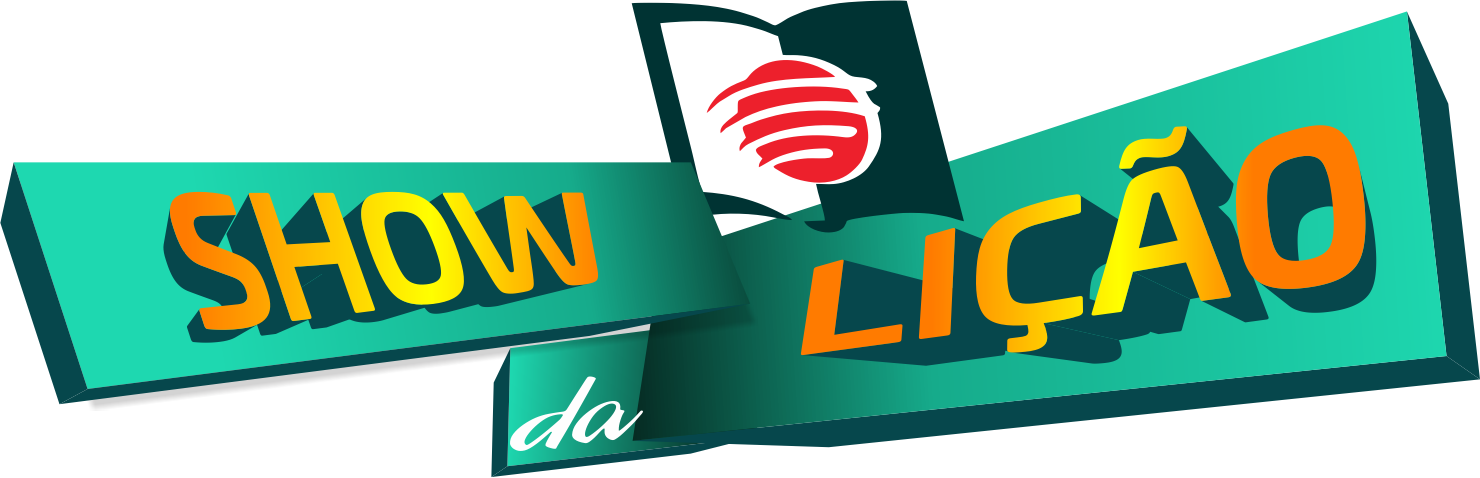
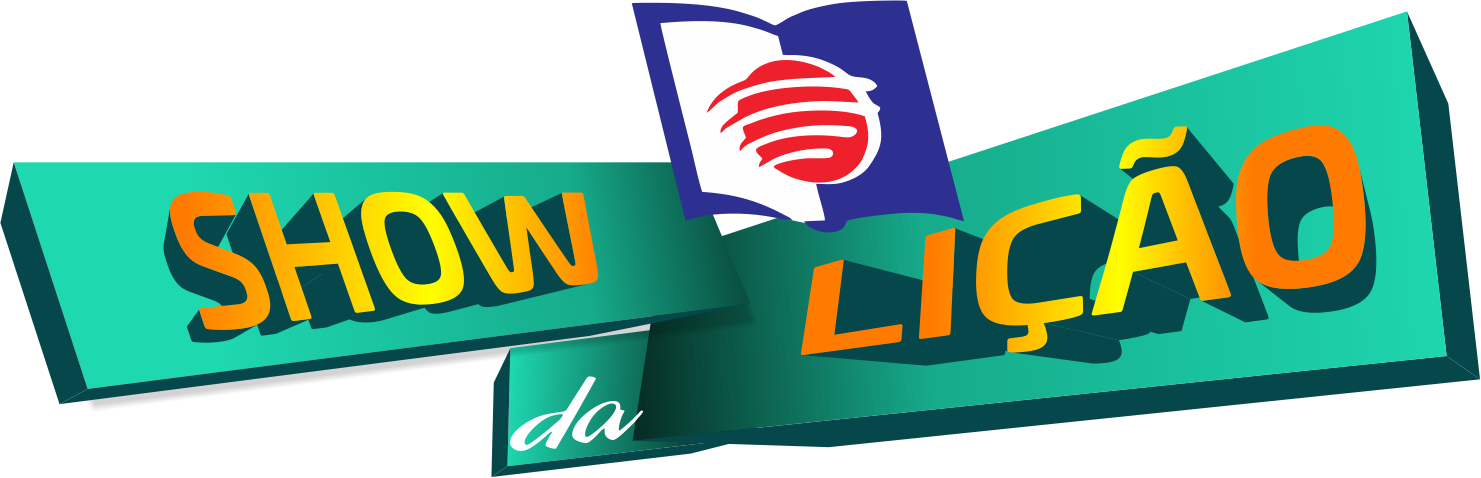
Ajustes no designer a botões.

diff --git a/App.tsx b/App.tsx
@@ -13,7 +13,7 @@ import wrongAudioTrack from './Errou.mp3';
 
 const MIN_ZOOM = 50;
 const MAX_ZOOM = 120;
-const DEFAULT_ZOOM = 67;
+const DEFAULT_ZOOM = 90;
 const DEFAULT_THEME_ID = 'ocean';
 const DEFAULT_CUSTOM_COLOR = '#ff006e';
 
@@ -80,17 +80,17 @@ const FONT_OPTIONS: FontOption[] = [
 ];
 
 const DEFAULT_QUESTION_FONT_ID = 'roboto-condensed-bold';
-const DEFAULT_ANSWER_FONT_ID = 'roboto-condensed-medium';
+const DEFAULT_ANSWER_FONT_ID = 'roboto-condensed-bold';
 const MIN_FONT_SIZE_PT = 12;
 const MAX_FONT_SIZE_PT = 100;
-const DEFAULT_QUESTION_FONT_SIZE = 32;
-const DEFAULT_ANSWER_FONT_SIZE = 28;
+const DEFAULT_QUESTION_FONT_SIZE = 31;
+const DEFAULT_ANSWER_FONT_SIZE = 16;
 const DEFAULT_QUESTION_POINTS = 1000;
 const DEFAULT_QUESTION_COUNT = 10;
 const DEFAULT_OPTION_COUNT = 4;
-const DEFAULT_MUSIC_VOLUME = 16;
-const DEFAULT_EFFECTS_VOLUME = 40;
-const DEFAULT_TEAM_CLOCK_VOLUME = 40;
+const DEFAULT_MUSIC_VOLUME = 30;
+const DEFAULT_EFFECTS_VOLUME = 90;
+const DEFAULT_TEAM_CLOCK_VOLUME = 60;
 const QUESTION_OPTION_KEYS: QuestionOptionKey[] = ['A', 'B', 'C', 'D', 'E', 'F'];
 const clamp = (value: number, min: number, max: number): number => Math.min(max, Math.max(min, value));
 
@@ -244,17 +244,23 @@ const App: React.FC = () => {
   const [showTeamNamesModal, setShowTeamNamesModal] = useState(false);
   const [musicVolume, setMusicVolume] = useState<number>(() => {
     if (typeof window === 'undefined') return DEFAULT_MUSIC_VOLUME;
-    const saved = Number(window.localStorage.getItem('musicVolume'));
+    const savedRaw = window.localStorage.getItem('musicVolume');
+    if (savedRaw === null) return DEFAULT_MUSIC_VOLUME;
+    const saved = Number(savedRaw);
     return Number.isFinite(saved) ? clamp(saved, 0, 100) : DEFAULT_MUSIC_VOLUME;
   });
   const [effectsVolume, setEffectsVolume] = useState<number>(() => {
     if (typeof window === 'undefined') return DEFAULT_EFFECTS_VOLUME;
-    const saved = Number(window.localStorage.getItem('effectsVolume'));
+    const savedRaw = window.localStorage.getItem('effectsVolume');
+    if (savedRaw === null) return DEFAULT_EFFECTS_VOLUME;
+    const saved = Number(savedRaw);
     return Number.isFinite(saved) ? clamp(saved, 0, 100) : DEFAULT_EFFECTS_VOLUME;
   });
   const [teamClockVolume, setTeamClockVolume] = useState<number>(() => {
     if (typeof window === 'undefined') return DEFAULT_TEAM_CLOCK_VOLUME;
-    const saved = Number(window.localStorage.getItem('teamClockVolume'));
+    const savedRaw = window.localStorage.getItem('teamClockVolume');
+    if (savedRaw === null) return DEFAULT_TEAM_CLOCK_VOLUME;
+    const saved = Number(savedRaw);
     return Number.isFinite(saved) ? clamp(saved, 0, 100) : DEFAULT_TEAM_CLOCK_VOLUME;
   });
   const [draftTeam1Name, setDraftTeam1Name] = useState('Equipe 1');
@@ -277,6 +283,28 @@ const App: React.FC = () => {
     hiddenOptions: [],
     shuffledQuestions: []
   });
+
+  useEffect(() => {
+    if (typeof window === 'undefined') return;
+
+    const migrationKey = 'appVolumeDefaultsMigratedV1';
+    if (window.localStorage.getItem(migrationKey) === '1') return;
+
+    const musicRaw = window.localStorage.getItem('musicVolume');
+    const effectsRaw = window.localStorage.getItem('effectsVolume');
+    const teamRaw = window.localStorage.getItem('teamClockVolume');
+
+    if (musicRaw === '0' && effectsRaw === '0' && teamRaw === '0') {
+      setMusicVolume(DEFAULT_MUSIC_VOLUME);
+      setEffectsVolume(DEFAULT_EFFECTS_VOLUME);
+      setTeamClockVolume(DEFAULT_TEAM_CLOCK_VOLUME);
+      window.localStorage.setItem('musicVolume', String(DEFAULT_MUSIC_VOLUME));
+      window.localStorage.setItem('effectsVolume', String(DEFAULT_EFFECTS_VOLUME));
+      window.localStorage.setItem('teamClockVolume', String(DEFAULT_TEAM_CLOCK_VOLUME));
+    }
+
+    window.localStorage.setItem(migrationKey, '1');
+  }, []);
 
   useEffect(() => {
     window.localStorage.setItem('appSetupZoomLevel', String(setupZoomLevel));
@@ -349,6 +377,47 @@ const App: React.FC = () => {
       openingAudioRef.current = null;
     };
   }, []);
+
+  useEffect(() => {
+    if (typeof window === 'undefined') return;
+    if (gameState.mode !== 'setup') return;
+
+    const removeInteractionListeners = () => {
+      window.removeEventListener('pointerdown', tryPlayOnInteraction);
+      window.removeEventListener('touchstart', tryPlayOnInteraction);
+      window.removeEventListener('keydown', tryPlayOnInteraction);
+      window.removeEventListener('mousemove', tryPlayOnInteraction);
+      window.removeEventListener('click', tryPlayOnInteraction);
+    };
+
+    const tryPlayOnInteraction = () => {
+      const audio = openingAudioRef.current;
+      if (!audio) return;
+
+      if (!audio.paused) {
+        removeInteractionListeners();
+        return;
+      }
+
+      void audio.play()
+        .then(() => {
+          removeInteractionListeners();
+        })
+        .catch(() => {
+          // Ignora bloqueios de autoplay em contextos sem interação.
+        });
+    };
+
+    window.addEventListener('pointerdown', tryPlayOnInteraction, { passive: true });
+    window.addEventListener('touchstart', tryPlayOnInteraction, { passive: true });
+    window.addEventListener('keydown', tryPlayOnInteraction);
+    window.addEventListener('mousemove', tryPlayOnInteraction, { passive: true });
+    window.addEventListener('click', tryPlayOnInteraction, { passive: true });
+
+    return () => {
+      removeInteractionListeners();
+    };
+  }, [gameState.mode]);
 
   useEffect(() => {
     const audio = openingAudioRef.current;
@@ -836,7 +905,7 @@ const App: React.FC = () => {
       </div>
       <button
         onClick={() => setShowSetupZoomPanel(prev => !prev)}
-        className="w-10 h-10 rounded-lg bg-white/20 hover:bg-white/20 backdrop-blur-sm shadow-none border-0 flex items-center justify-center transition-all duration-200 ease-out active:scale-95"
+        className="w-10 h-10 md:w-11 md:h-11 rounded-xl bg-white/20 hover:bg-white/40 backdrop-blur-sm shadow-lg border border-white/30 flex items-center justify-center transition-all duration-200 ease-out active:scale-95"
         style={{ color: activeTheme.primary }}
         aria-label="Abrir controle de zoom inicial"
         title="Zoom Inicial"
@@ -870,7 +939,7 @@ const App: React.FC = () => {
       </div>
       <button
         onClick={() => setShowGameZoomPanel(prev => !prev)}
-        className="w-10 h-10 rounded-lg bg-white/20 hover:bg-white/20 backdrop-blur-sm shadow-none border-0 flex items-center justify-center transition-all duration-200 ease-out active:scale-95"
+        className="w-10 h-10 md:w-11 md:h-11 rounded-xl bg-white/20 hover:bg-white/40 backdrop-blur-sm shadow-lg border border-white/30 flex items-center justify-center transition-all duration-200 ease-out active:scale-95"
         style={{ color: activeTheme.primary }}
         aria-label="Abrir controle de zoom da tela de perguntas"
         title="Zoom Perguntas"
@@ -883,7 +952,7 @@ const App: React.FC = () => {
   const settingsButton = (
     <button
       onClick={() => setShowSettings(true)}
-      className="fixed top-4 right-4 z-[70] w-10 h-10 rounded-lg bg-white/20 hover:bg-white/20 backdrop-blur-sm shadow-none border-0 flex items-center justify-center transition-all duration-200 ease-out active:scale-95"
+      className="fixed top-4 right-4 z-[70] w-10 h-10 md:w-11 md:h-11 rounded-xl bg-white/20 hover:bg-white/40 backdrop-blur-sm shadow-lg border border-white/30 flex items-center justify-center transition-all duration-200 ease-out active:scale-95"
       aria-label="Abrir configurações"
       title="Configurações"
       style={{ color: activeTheme.primary }}
@@ -904,20 +973,20 @@ const App: React.FC = () => {
             <div className="flex items-center justify-between gap-4 mb-6 md:mb-8">
               <h2 className="text-xl md:text-2xl font-black uppercase leading-none flex items-center gap-2 md:gap-2">
                 <img src={settingsIcon} alt="" className="w-6 h-6 md:w-7 md:h-7" aria-hidden="true" />
-                <span className="translate-y-[1px]">Configurações</span>
+                <span className="hidden md:inline translate-y-[1px]">Configurações</span>
               </h2>
               <div className="flex items-center gap-2 md:gap-3">
                 <button
                   onClick={handleApplyFontChanges}
                   disabled={!hasPendingFontChanges}
-                  className="px-5 py-2.5 rounded-xl text-white font-black uppercase text-xs md:text-sm shadow-lg transition-all disabled:opacity-50 disabled:cursor-not-allowed"
+                  className="px-4 md:px-5 py-2 md:py-2.5 rounded-xl text-white hover:text-green-300 font-black uppercase text-[10px] md:text-sm shadow-lg transition-all duration-200 ease-out hover:brightness-110 disabled:opacity-50 disabled:cursor-not-allowed"
                   style={{ backgroundColor: activeTheme.primary }}
                 >
                   Aplicar
                 </button>
                 <button
                   onClick={() => setShowSettings(false)}
-                  className="text-white font-black py-2.5 px-5 rounded-xl text-xs md:text-sm uppercase shadow-lg"
+                  className="text-white hover:text-green-300 font-black py-2 md:py-2.5 px-4 md:px-5 rounded-xl text-[10px] md:text-sm uppercase shadow-lg transition-all duration-200 ease-out hover:brightness-110"
                   style={{ backgroundColor: activeTheme.primary }}
                 >
                   Voltar
@@ -939,7 +1008,7 @@ const App: React.FC = () => {
                       <button
                         key={item.id}
                         onClick={() => setSettingsSection(item.id as 'interface' | 'perguntas' | 'fontes')}
-                        className={`w-full text-left px-4 py-3 rounded-xl font-black uppercase text-sm transition-all border ${isActive ? 'shadow-md' : 'hover:bg-white'}`}
+                        className={`w-full text-left px-4 py-2.5 md:py-3 rounded-xl font-black uppercase text-xs md:text-sm transition-all border ${isActive ? 'shadow-md' : 'hover:bg-white'}`}
                         style={isActive
                           ? {
                               color: activeTheme.primary,
@@ -1082,7 +1151,7 @@ const App: React.FC = () => {
                           />
                           <button
                             onClick={() => setThemeId('custom')}
-                            className="px-4 py-2 rounded-lg text-white font-bold text-sm"
+                            className="px-4 py-2 rounded-lg text-white font-bold text-xs md:text-sm"
                             style={{ backgroundColor: customColor }}
                           >
                             Usar Cor Personalizada
@@ -1139,7 +1208,7 @@ const App: React.FC = () => {
                     <button
                       onClick={openQuestionBuilder}
                       disabled={!questionBuilderIsReady}
-                      className="mt-6 w-full rounded-2xl px-5 py-4 text-white font-black uppercase shadow-lg transition-all disabled:opacity-50 disabled:cursor-not-allowed"
+                      className="mt-6 inline-flex self-center rounded-2xl px-4 md:px-5 py-3 md:py-4 text-white hover:text-green-300 font-black uppercase text-xs md:text-sm shadow-lg transition-all duration-200 ease-out hover:brightness-110 disabled:opacity-50 disabled:cursor-not-allowed"
                       style={{ backgroundColor: activeTheme.primary }}
                     >
                       Gerar perguntas
@@ -1259,7 +1328,7 @@ const App: React.FC = () => {
                 </div>
                 <button
                   onClick={() => setShowQuestionBuilder(false)}
-                  className="rounded-xl px-4 py-2.5 text-white font-black uppercase text-sm shadow-lg"
+                  className="rounded-xl px-4 py-2.5 text-white hover:text-green-300 font-black uppercase text-xs md:text-sm shadow-lg transition-all duration-200 ease-out hover:brightness-110"
                   style={{ backgroundColor: activeTheme.primary }}
                 >
                   Fechar
@@ -1349,13 +1418,13 @@ const App: React.FC = () => {
               <div className="border-t border-gray-100 bg-white px-4 py-4 md:px-8 md:py-5 flex items-center justify-end gap-3">
                 <button
                   onClick={() => setShowQuestionBuilder(false)}
-                  className="rounded-xl px-5 py-3 bg-gray-100 text-gray-600 font-black uppercase text-sm"
+                  className="rounded-xl px-5 py-3 bg-gray-100 text-gray-600 font-black uppercase text-xs md:text-sm"
                 >
                   Cancelar
                 </button>
                 <button
                   onClick={generateQuestions}
-                  className="rounded-xl px-5 py-3 text-white font-black uppercase text-sm shadow-lg"
+                  className="rounded-xl px-5 py-3 text-white hover:text-green-300 font-black uppercase text-xs md:text-sm shadow-lg transition-all duration-200 ease-out hover:brightness-110"
                   style={{ backgroundColor: activeTheme.primary }}
                 >
                   Salvar
@@ -1379,17 +1448,18 @@ const App: React.FC = () => {
             className="w-full max-w-[820px] h-auto object-contain mb-8 md:mb-10 drop-shadow-2xl"
           />
 
-          <div className="w-full max-w-md space-y-4">
+          <div className="w-full max-w-md space-y-4 flex flex-col items-center">
             <button
               onClick={handleStartGame}
-              className="w-full text-white font-black py-4 rounded-2xl text-2xl uppercase transition-all duration-200 ease-out shadow-lg active:scale-95"
+              className="inline-flex items-center justify-center text-white hover:text-green-300 font-black py-4 px-10 rounded-2xl text-2xl uppercase transition-all duration-200 ease-out shadow-lg hover:brightness-110 active:scale-95"
               style={{ backgroundColor: activeTheme.primary }}
             >
               Iniciar Jogo
             </button>
             <button
               onClick={openTeamNamesModal}
-              className="w-full bg-white/90 text-gray-800 font-black py-4 rounded-2xl text-xl uppercase transition-all duration-200 ease-out shadow-lg active:scale-95"
+              className="inline-flex items-center justify-center text-white hover:text-green-300 font-black py-4 px-10 rounded-2xl text-xl uppercase transition-all duration-200 ease-out shadow-lg hover:brightness-110 active:scale-95"
+              style={{ backgroundColor: activeTheme.primary }}
             >
               Alterar Nome de Equipes
             </button>
@@ -1431,7 +1501,7 @@ const App: React.FC = () => {
                 </button>
                 <button
                   onClick={saveTeamNames}
-                  className="rounded-xl px-5 py-3 text-white font-black uppercase text-sm shadow-lg"
+                  className="rounded-xl px-5 py-3 text-white font-black uppercase text-sm shadow-lg transition-all duration-200 ease-out hover:brightness-110"
                   style={{ backgroundColor: activeTheme.primary }}
                 >
                   Alterar
@@ -1469,8 +1539,8 @@ const App: React.FC = () => {
           <p className="text-2xl sm:text-4xl md:text-5xl font-black mb-8 md:mb-12 uppercase italic" style={{ color: activeTheme.primary }}>
             {isDraw ? "Empate Técnico!" : `Vitória da ${winner.name}!`}
           </p>
-          <button onClick={resetToSetup} className="w-full text-white font-black py-4 md:py-5 rounded-2xl text-lg md:text-2xl transition-all duration-200 ease-out shadow-md mb-4 md:mb-6" style={{ backgroundColor: activeTheme.primary }}>NOVA PARTIDA</button>
-          <button onClick={resetToSetup} className="w-full bg-gray-100 hover:bg-gray-200 text-gray-600 font-bold py-3 md:py-4 rounded-2xl text-base md:text-xl">VOLTAR AO MENU</button>
+          <button onClick={resetToSetup} className="inline-flex items-center justify-center text-white font-black py-4 md:py-5 px-10 rounded-2xl text-lg md:text-2xl transition-all duration-200 ease-out hover:brightness-110 shadow-md mb-4 md:mb-6" style={{ backgroundColor: activeTheme.primary }}>NOVA PARTIDA</button>
+          <button onClick={resetToSetup} className="inline-flex items-center justify-center bg-gray-100 hover:bg-gray-200 text-gray-600 font-bold py-3 md:py-4 px-10 rounded-2xl text-base md:text-xl transition-all duration-200 ease-out">VOLTAR AO MENU</button>
           </div>
         </div>
         {setupZoomFloatingControl}
@@ -1593,13 +1663,13 @@ const App: React.FC = () => {
         <button
           disabled={!gameState.selectedOption}
           onClick={handleConfirm}
-          className="w-full sm:w-auto bg-green-500 hover:bg-green-600 disabled:bg-gray-300 text-white font-black py-3 md:py-4 px-8 md:px-10 rounded-3xl text-base md:text-lg transition-all duration-200 ease-out shadow-xl border-b-8 border-green-600 disabled:border-gray-400 active:scale-95 uppercase tracking-wide"
+          className="inline-flex items-center justify-center bg-green-500 hover:bg-green-600 disabled:bg-gray-300 text-white font-black py-3 md:py-4 px-8 md:px-10 rounded-3xl text-base md:text-lg transition-all duration-200 ease-out shadow-xl border-b-8 border-green-600 disabled:border-gray-400 active:scale-95 uppercase tracking-wide"
         >
           Confirmar
         </button>
         <button
           onClick={handleSkip}
-          className="w-full sm:w-auto bg-gray-500 hover:bg-gray-600 text-white font-black py-3 md:py-4 px-8 md:px-10 rounded-3xl text-base md:text-lg transition-all duration-200 ease-out shadow-xl border-b-8 border-gray-600 active:scale-95 uppercase tracking-wide"
+          className="inline-flex items-center justify-center bg-gray-500 hover:bg-gray-600 text-white font-black py-3 md:py-4 px-8 md:px-10 rounded-3xl text-base md:text-lg transition-all duration-200 ease-out shadow-xl border-b-8 border-gray-600 active:scale-95 uppercase tracking-wide"
         >
           Passar
         </button>
@@ -1682,8 +1752,8 @@ const App: React.FC = () => {
               </p>
             </div>
             <div className="flex items-center justify-center gap-3 md:gap-4 flex-wrap">
-              <button onClick={handleNextAction} className="inline-flex w-full sm:w-auto items-center justify-center text-white font-black py-3 px-5 rounded-3xl text-sm md:text-base shadow-2xl active:scale-95 transition-all duration-200 ease-out uppercase tracking-widest bg-green-500 hover:bg-green-600">Proxima</button>
-              <button onClick={resetToSetup} className="inline-flex w-full sm:w-auto items-center justify-center bg-gray-50 hover:bg-gray-200 text-gray-500 font-bold py-3 px-5 rounded-3xl text-sm md:text-base uppercase transition-all duration-200 ease-out duration-200 ease-out">Sair</button>
+              <button onClick={handleNextAction} className="inline-flex items-center justify-center text-white font-black py-3 px-5 rounded-3xl text-sm md:text-base shadow-2xl active:scale-95 transition-all duration-200 ease-out uppercase tracking-widest bg-green-500 hover:bg-green-600">Proxima</button>
+              <button onClick={resetToSetup} className="inline-flex items-center justify-center bg-gray-50 hover:bg-gray-200 text-gray-500 font-bold py-3 px-5 rounded-3xl text-sm md:text-base uppercase transition-all duration-200 ease-out duration-200 ease-out">Sair</button>
             </div>
           </div>
         </div>

diff --git a/index.html b/index.html
@@ -9,8 +9,8 @@
     <meta name="mobile-web-app-capable" content="yes">
     <meta name="apple-mobile-web-app-capable" content="yes">
     <link rel="manifest" href="%BASE_URL%manifest.webmanifest">
-    <link rel="icon" type="image/png" href="%BASE_URL%img/icopage.png">
-    <link rel="apple-touch-icon" href="%BASE_URL%img/icopage.png">
+    <link rel="icon" type="image/png" href="%BASE_URL%img/ico.png">
+    <link rel="apple-touch-icon" href="%BASE_URL%img/ico.png">
     <script src="https://cdn.tailwindcss.com"></script>
     <link href="https://fonts.googleapis.com/css2?family=Montserrat:wght@400;700;900&display=swap" rel="stylesheet">
     <link rel="stylesheet" href="%BASE_URL%styles.css">

diff --git a/public/sw.js b/public/sw.js
@@ -1,4 +1,4 @@
-const CACHE_VERSION = 'show-da-licao-pwa-v1';
+const CACHE_VERSION = 'show-da-licao-pwa-v3';
 const CACHE_NAME = `show-da-licao-cache-${CACHE_VERSION}`;
 
 const BASE_PATH = new URL('./', self.location).pathname;
@@ -6,7 +6,7 @@ const APP_SHELL = [
   BASE_PATH,
   `${BASE_PATH}index.html`,
   `${BASE_PATH}manifest.webmanifest`,
-  `${BASE_PATH}img/icopage.png`
+  `${BASE_PATH}img/ico.png`
 ];
 
 self.addEventListener('install', (event) => {